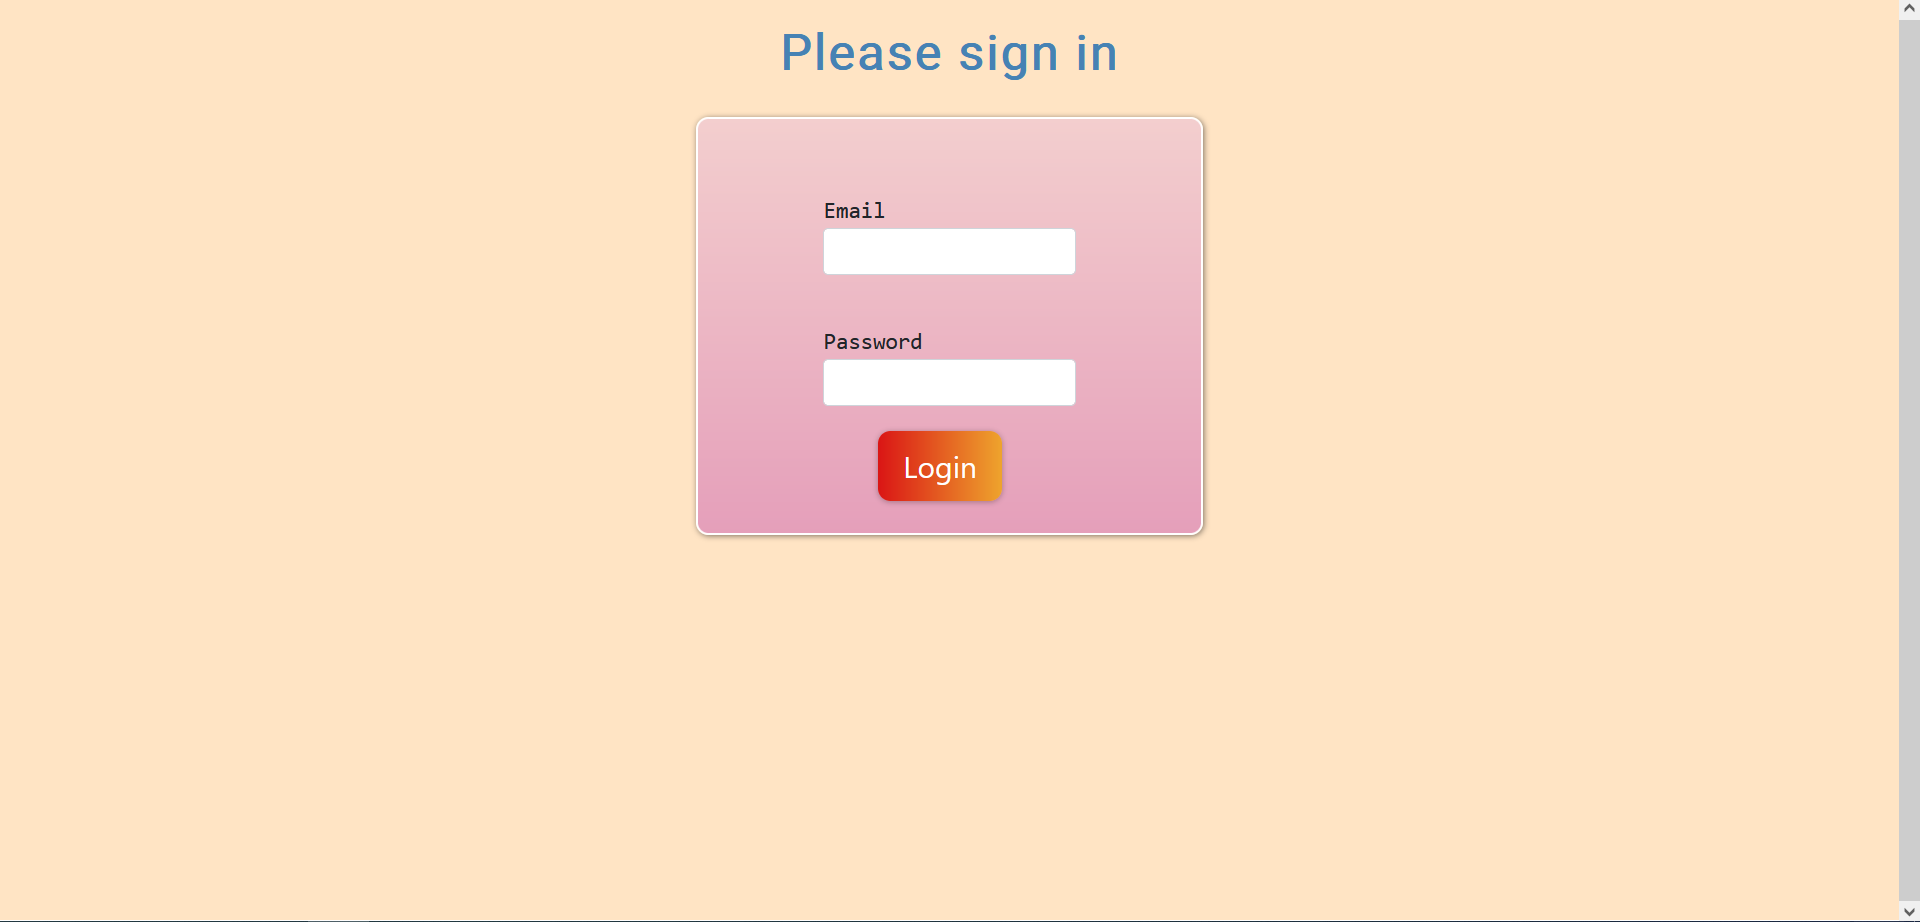
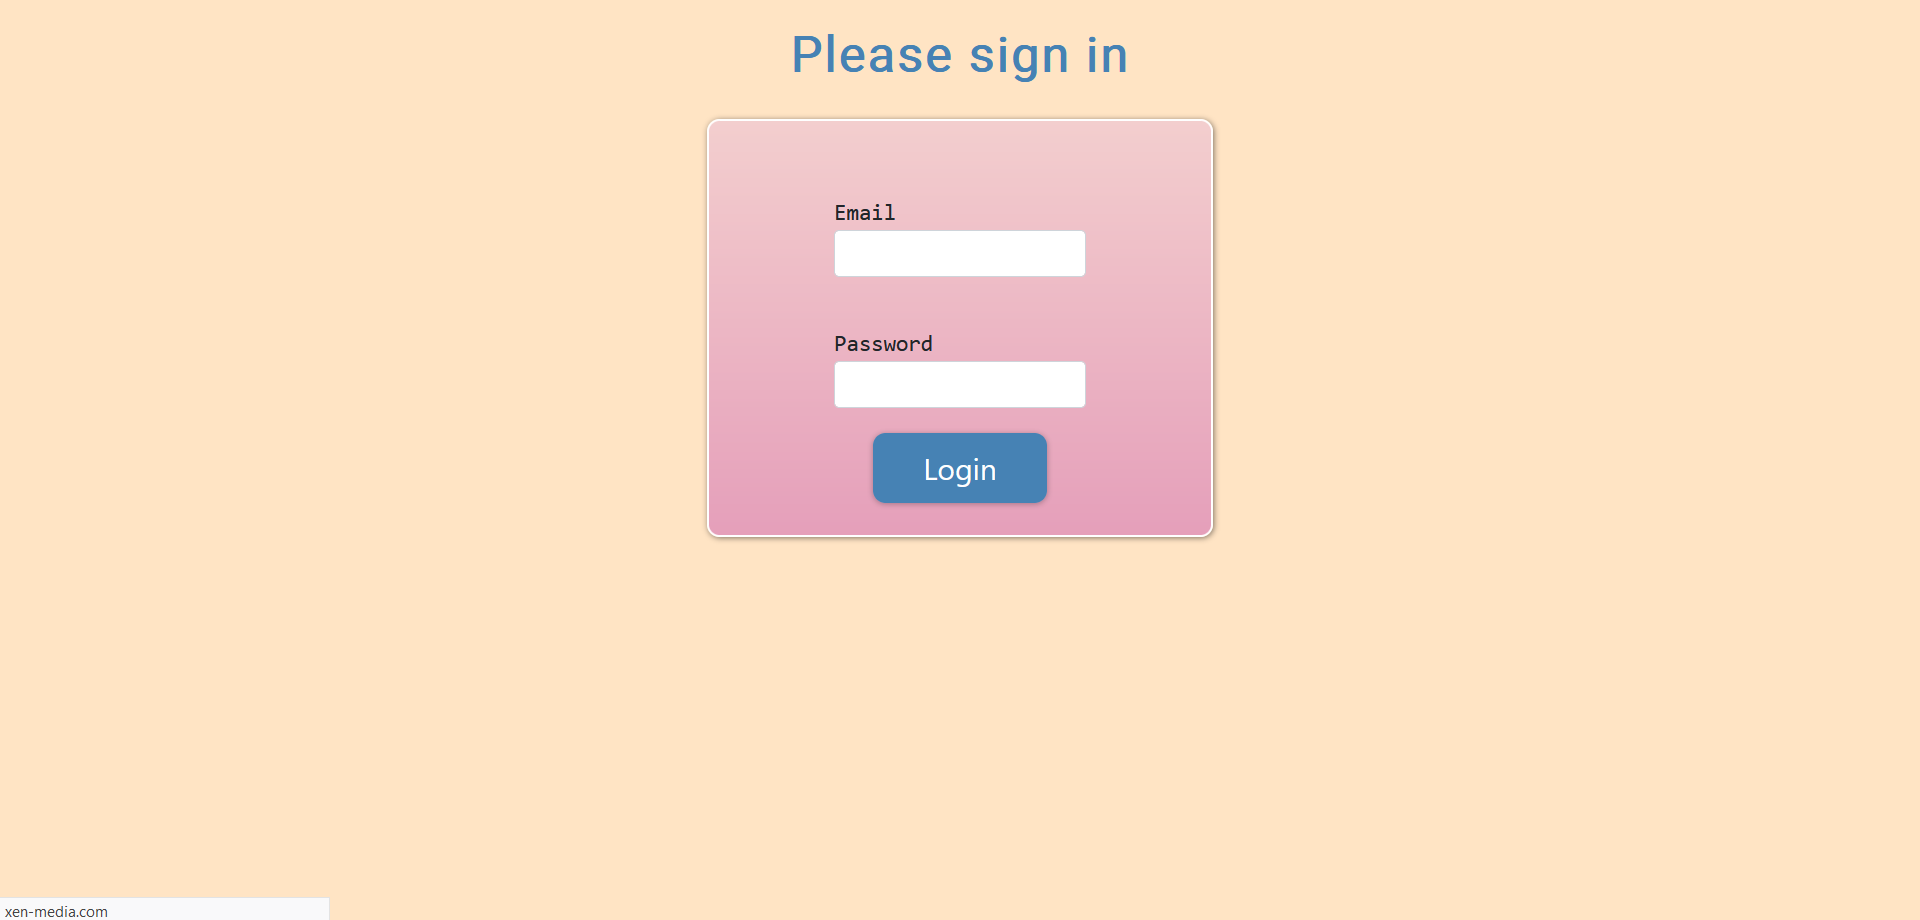
Updated css

diff --git a/src/main/resources/templates/book_detail.html b/src/main/resources/templates/book_detail.html
@@ -7,9 +7,9 @@
 <div th:replace="common/header :: navbar"></div>
 
 <div class="container" style="margin-top: 10px;text-align: center">
-    <form th:action="@{'/cartAction/addToCart?id=' + ${id}}" th:if="${book.getIn_stock() > 0}" method="post" style="text-align: right;">
+    <form th:action="@{'/cartAction/addToCart?id=' + ${id}}" th:if="${book.getInStock() > 0}" method="post" style="text-align: right;">
         <label for="quantity">Quantity</label>
-        <input type="number" min="1" th:max="${book.getIn_stock()}" id="quantity" name="quantity">
+        <input type="number" min="1" th:max="${book.getInStock()}" id="quantity" name="quantity">
         <input type="submit" class="cart_button" value="Add to cart" >
     </form>
     <p th:text="${book.getTitle()}"
@@ -19,14 +19,14 @@
     <div style="text-align: justify;padding-left: 20px;padding-right: 10px;padding-top: 5px;">
         <p style="margin-bottom: 0;" class="title_font" th:text="Description + ':'"></p>
         <span style="font-size: 20px;" th:text="${'&emsp;' + book.getDescription() + ' Contains ' +
-             book.getNumber_of_pages() + ' pages.'}"></span>
+             book.getNumberOfPages() + ' pages.'}"></span>
         <div class="row" style="margin-bottom: 0;font-size: 24px;align-items: baseline;">
             <p style="margin: 0;padding-left: 15px;" class="title_font" th:text="'Written by: '"></p>
             <span th:text="'&nbsp;'+${book.getAuthor()}"></span>
         </div>
         <div class="row" style="margin-bottom: 0;font-size: 24px;align-items: baseline;">
             <p class="title_font" style="margin: 0;padding-left:15px;" th:text="'Published by: '"></p>
-            <span style="margin-bottom: 0;" th:text="${'&nbsp;'+book.getPublisher() + ' in ' + book.getPublication_date()}"></span>
+            <span style="margin-bottom: 0;" th:text="${'&nbsp;'+book.getPublisher() + ' in ' + book.getPublicationDate()}"></span>
         </div>
         <div class="row" style="margin-bottom: 0;font-size: 24px;align-items: baseline;">
             <p class="title_font" style="margin: 0;padding-left: 15px" th:text="'Category: '"></p>

diff --git a/src/main/resources/templates/get_addresses.html b/src/main/resources/templates/get_addresses.html
@@ -1,17 +1,17 @@
 <!DOCTYPE html>
-<html xmlns:th="http://www.thymeleaf.org" xmlns:tiles="http://www.thymeleaf.org" lang="en">
+<html xmlns:th="http://www.thymeleaf.org" lang="en">
 <head th:replace="common/header :: page-header ">
     <title>Get addresses</title>
 </head>
-<body>
-<div th:replace="common/header :: navbar"></div>
+<body class="body_address">
+    <div th:replace="common/header :: navbar"></div>
 
-    <div class="container">
-        <div style="text-align: right;">
-            <a th:href="@{/billing/addAddress}" style="color: #707f90;">Want to add an address?</a>
-        </div>
+    <div class="add_address_a" >
+        <a th:href="@{/billing/addAddress}">Want to add an address?</a>
+    </div>
 
-        <table th:if="${billings != null && billings.size() > 0}" class="table" style="padding-top: 10px;">
+    <div class="address_container">
+        <table th:if="${billings != null && billings.size() > 0}" class="table">
             <thead class="thead-dark">
                 <tr>
                     <th scope="col">ID</th>
@@ -23,7 +23,7 @@
                 </tr>
             </thead>
 
-            <tbody th:each="billing : ${billings}" th:value="${billing}">
+            <tbody th:each="billing : ${billings}" th:value="${billing}" class="billing_body">
                 <tr>
                     <td th:text="${billing.getId()}"></td>
                     <td th:text="${billing.getCountry()}"></td>
@@ -35,8 +35,5 @@
             </tbody>
         </table>
     </div>
-
-
-
 </body>
 </html>

diff --git a/src/main/resources/static/css/main.css b/src/main/resources/static/css/main.css
@@ -145,10 +145,12 @@
     letter-spacing: 2px;
     padding: 20px;
     font-weight: bold;
+    font-family: 'Roboto', monospace;
+    color: steelblue;
 }
 
 .register_form{
-    border: 1px solid black;
+    border: 2px solid white;
     padding: 20px 60px 10px;
     border-radius: 10px;
     background-image: linear-gradient(#f3cece, #e59fba);
@@ -162,11 +164,11 @@
 }
 
 .register_button{
-    margin-right: 15px;
-    padding: 10px 20px;
+    padding: 10px 40px;
+    margin-right: 10px;
     color: white;
     outline: 0;
-    background-image: linear-gradient(to right, #da1515, #eea32d);
+    background-color: steelblue;
     border: 0;
     border-radius: 10px;
     font-size: 18px;
@@ -202,11 +204,10 @@
 }
 
 .login_button{
-    margin-right: 15px;
-    padding: 10px 20px;
+    padding: 10px 40px;
     color: white;
     outline: 0;
-    background-image: linear-gradient(to right, #da1515, #eea32d);
+    background-color: steelblue;
     border: 0;
     border-radius: 10px;
     font-size: 24px;
@@ -286,4 +287,32 @@
 .col-xs-9 a span{
     font-size: x-large;
     color:#db3208;
+}
+
+.address_container{
+    display: flex;
+    flex-direction: column;
+    overflow: hidden;
+    margin: 0 60px;
+}
+
+.add_address_a{
+    text-align: right;
+    margin: 5px 5px;
+}
+
+.add_address_a a{
+    color: #707f90;
+}
+
+.body_address{
+    background-color: #f0f0f0;
+}
+
+.login_body{
+    overflow: hidden;
+}
+
+.billing_body{
+    background-color: white;
 }

diff --git a/target/classes/static/css/main.css b/target/classes/static/css/main.css
@@ -145,10 +145,12 @@
     letter-spacing: 2px;
     padding: 20px;
     font-weight: bold;
+    font-family: 'Roboto', monospace;
+    color: steelblue;
 }
 
 .register_form{
-    border: 1px solid black;
+    border: 2px solid white;
     padding: 20px 60px 10px;
     border-radius: 10px;
     background-image: linear-gradient(#f3cece, #e59fba);
@@ -162,11 +164,11 @@
 }
 
 .register_button{
-    margin-right: 15px;
-    padding: 10px 20px;
+    padding: 10px 40px;
+    margin-right: 10px;
     color: white;
     outline: 0;
-    background-image: linear-gradient(to right, #da1515, #eea32d);
+    background-color: steelblue;
     border: 0;
     border-radius: 10px;
     font-size: 18px;
@@ -202,11 +204,10 @@
 }
 
 .login_button{
-    margin-right: 15px;
-    padding: 10px 20px;
+    padding: 10px 40px;
     color: white;
     outline: 0;
-    background-image: linear-gradient(to right, #da1515, #eea32d);
+    background-color: steelblue;
     border: 0;
     border-radius: 10px;
     font-size: 24px;
@@ -286,4 +287,32 @@
 .col-xs-9 a span{
     font-size: x-large;
     color:#db3208;
+}
+
+.address_container{
+    display: flex;
+    flex-direction: column;
+    overflow: hidden;
+    margin: 0 60px;
+}
+
+.add_address_a{
+    text-align: right;
+    margin: 5px 5px;
+}
+
+.add_address_a a{
+    color: #707f90;
+}
+
+.body_address{
+    background-color: #f0f0f0;
+}
+
+.login_body{
+    overflow: hidden;
+}
+
+.billing_body{
+    background-color: white;
 }

diff --git a/src/main/resources/templates/login.html b/src/main/resources/templates/login.html
@@ -6,7 +6,7 @@
     <link rel="stylesheet" href="/css/main.css" >
     <title>Login</title>
 </head>
-<body>
+<body class="login_body">
 <div tiles:fragment="content">
     <div class="common_container" style="background-color: bisque;">
         <form name="f" th:action="@{/login}" method="post" >

diff --git a/target/classes/templates/login.html b/target/classes/templates/login.html
@@ -6,7 +6,7 @@
     <link rel="stylesheet" href="/css/main.css" >
     <title>Login</title>
 </head>
-<body>
+<body class="login_body">
 <div tiles:fragment="content">
     <div class="common_container" style="background-color: bisque;">
         <form name="f" th:action="@{/login}" method="post" >

diff --git a/src/main/resources/templates/register.html b/src/main/resources/templates/register.html
@@ -7,7 +7,7 @@
     <link rel="stylesheet" href="/css/main.css">
     <title>Register</title>
 </head>
-<body>
+<body class="login_body">
 
 <div class="common_container" style="background-color: bisque;">
 

diff --git a/target/classes/templates/register.html b/target/classes/templates/register.html
@@ -7,7 +7,7 @@
     <link rel="stylesheet" href="/css/main.css">
     <title>Register</title>
 </head>
-<body>
+<body class="login_body">
 
 <div class="common_container" style="background-color: bisque;">
 
